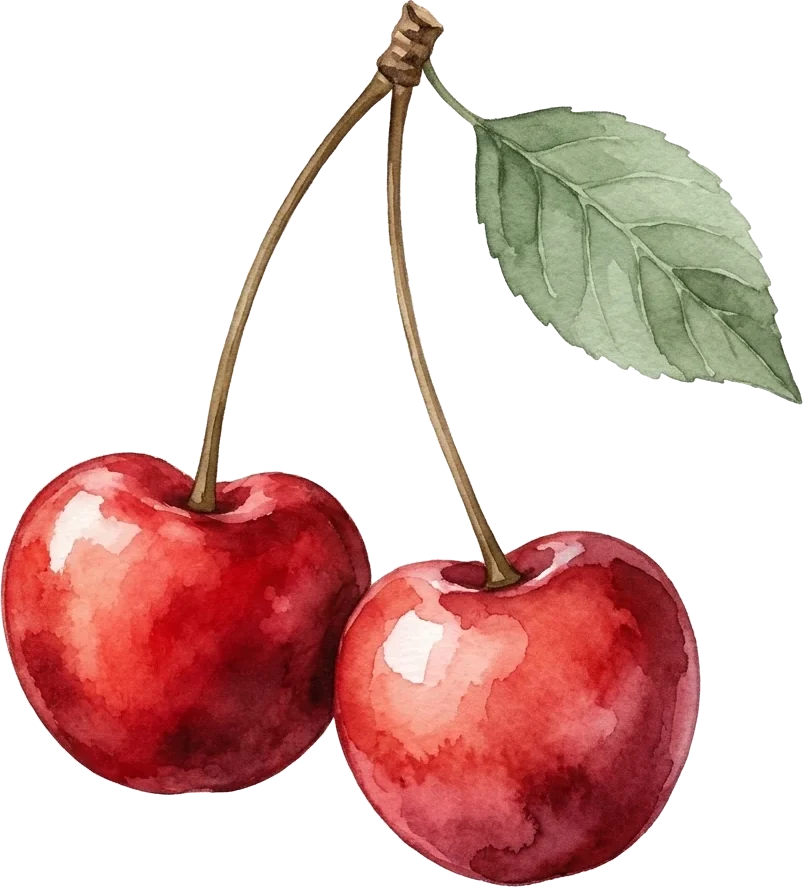
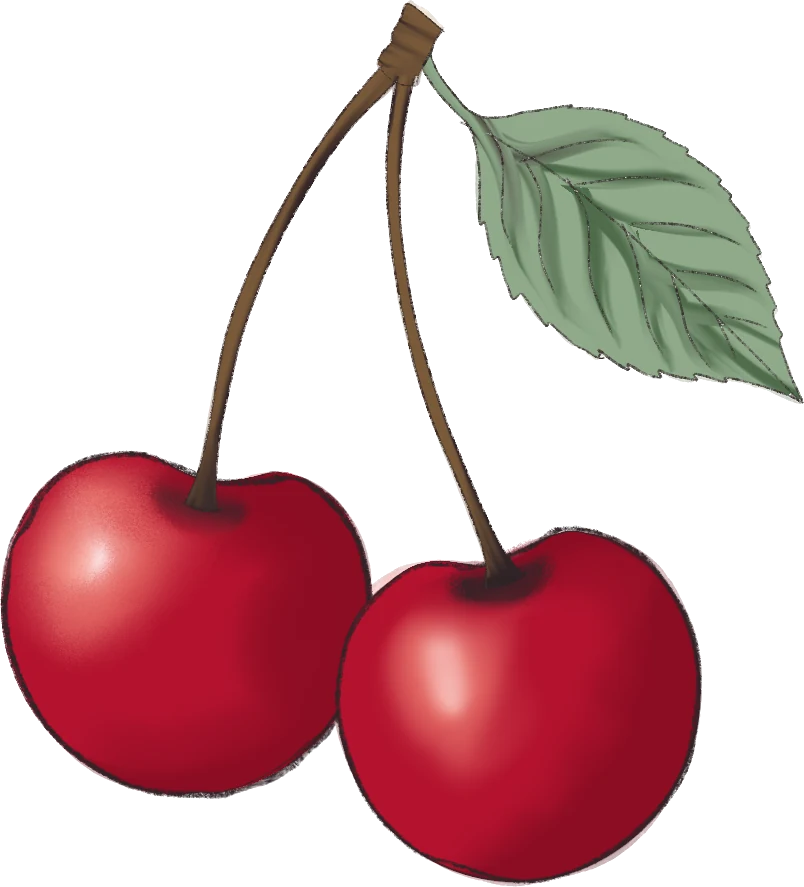
Cerises dessinées par Fanny en image d'accueil
Claude-Session: https://claude.ai/code/session_01QthmEZzomrVJiCgK4bGBd5

diff --git a/index.html b/index.html
@@ -327,7 +327,7 @@ footer .brandf{font-family:var(--main);font-size:1.5rem;color:var(--peche)}
     </div>
     <div class="hero-visual">
       <!-- DESSIN : images/cerise-grande.png -->
-      <img class="illu-img illu-hero" src="images/cerise-grande.webp" alt="Deux cerises jumelles à l'aquarelle" fetchpriority="high" decoding="async">
+      <img class="illu-img illu-hero" src="images/cerise-grande.webp" alt="Deux cerises dessinées par Fanny" fetchpriority="high" decoding="async">
       <div class="float-card glass fc1" aria-hidden="true"><span class="ic" style="background:var(--rose-clair)">📩</span><div>Nouvelle demande<small>de rendez-vous</small></div></div>
       <div class="float-card glass fc2" aria-hidden="true"><span class="ic" style="background:var(--sauge-clair)">✓</span><div>Fiche Google<small>en ligne</small></div></div>
     </div>
